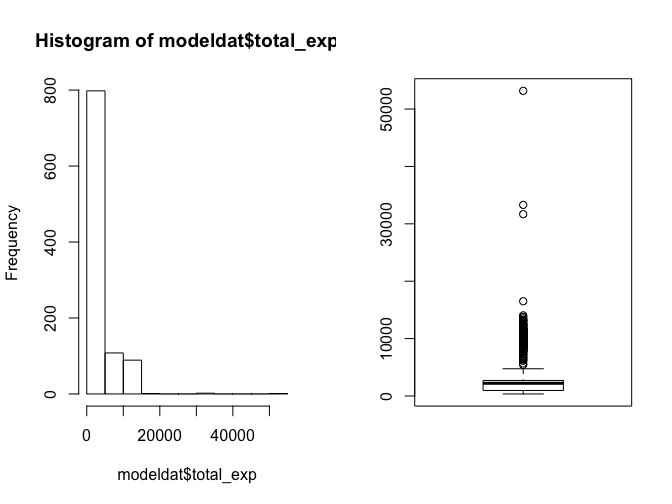
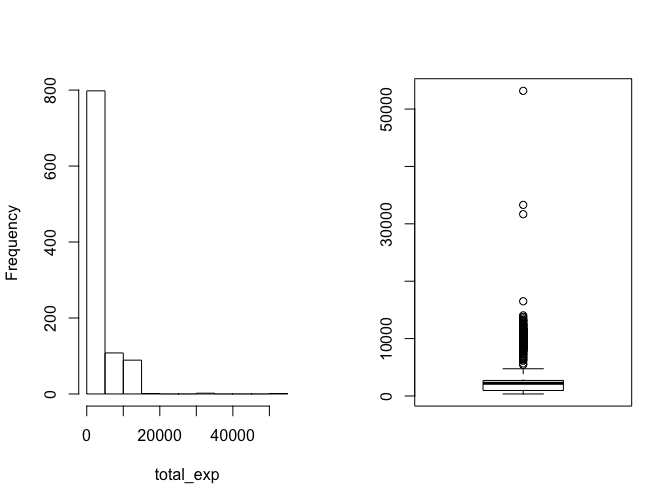
book

Changed region(s): [[0.0312, 0.0595, 0.5, 0.119], [0.1562, 0.9226, 0.375, 0.9524]]

diff --git a/book/section-8.html b/book/section-8.html
@@ -269,7 +269,7 @@ modeldat$total_exp&lt;-dat$store_exp+dat$online_exp</code></pre></div>
 ##  3rd Qu.:4.000   3rd Qu.:3.000   3rd Qu.: 2708.4  
 ##  Max.   :5.000   Max.   :5.000   Max.   :53172.3</code></pre>
 <div class="sourceCode"><pre class="sourceCode r"><code class="sourceCode r"><span class="kw">par</span>(<span class="dt">mfrow=</span><span class="kw">c</span>(<span class="dv">1</span>,<span class="dv">2</span>))
-<span class="kw">hist</span>(modeldat$total_exp)
+<span class="kw">hist</span>(modeldat$total_exp,<span class="dt">main=</span><span class="st">&quot;&quot;</span>,<span class="dt">xlab=</span><span class="st">&quot;total_exp&quot;</span>)
 <span class="kw">boxplot</span>(modeldat$total_exp)</code></pre></div>
 <p><img src="DS_R_files/figure-html/checkplot-1.png" title="" alt="" width="80%" style="display: block; margin: auto;" /></p>
 <p>数据集<code>modeldat</code>中没有缺失值，但是明显有离群点，而且应变量<code>total_exp</code>分布明显偏离正态。我们删除离群点，然后对应变量进行对数变换。</p>
